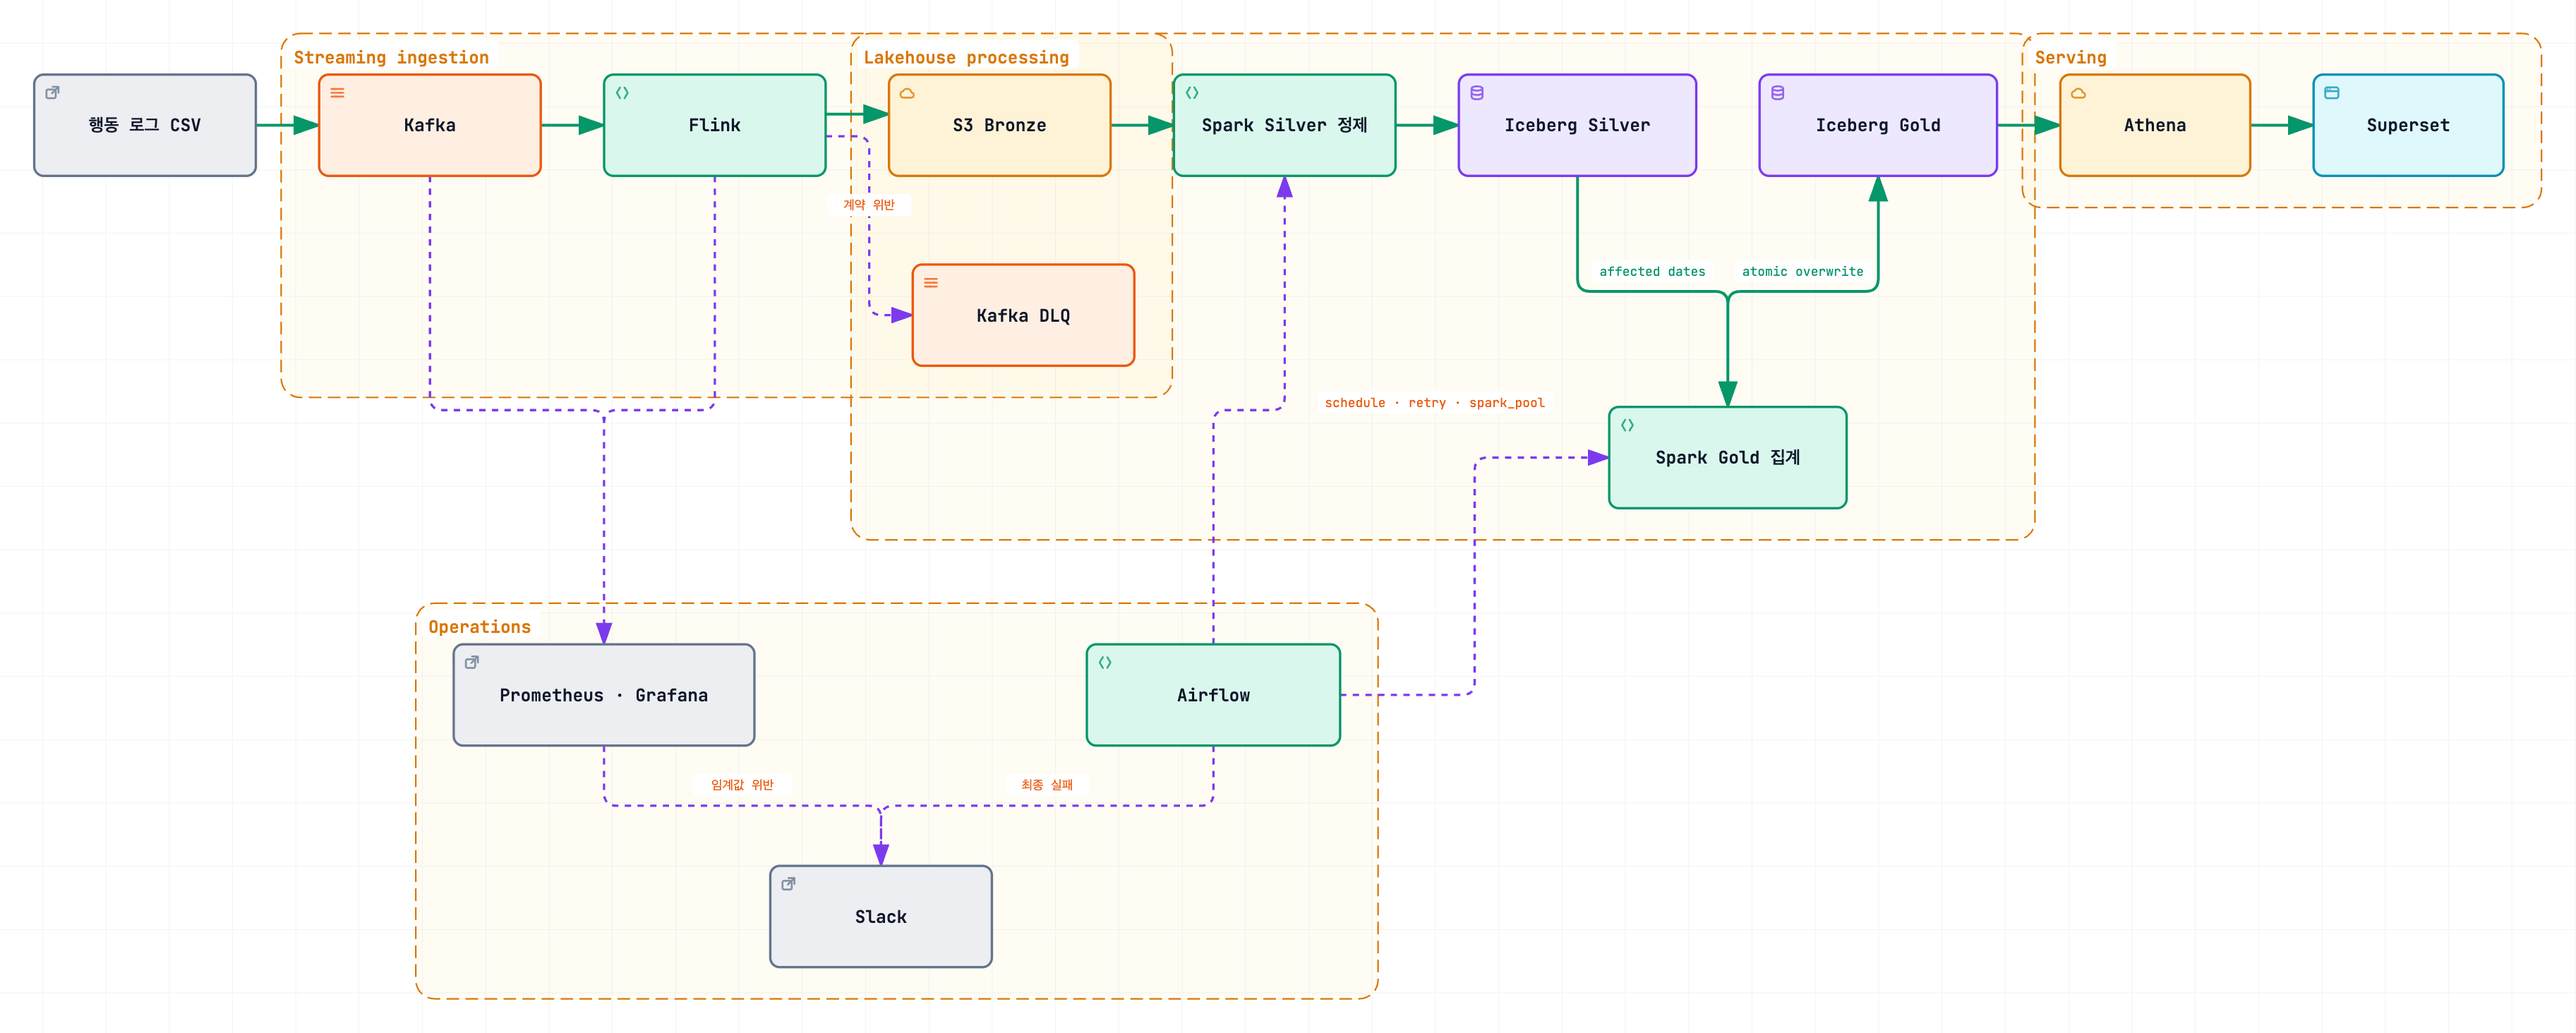
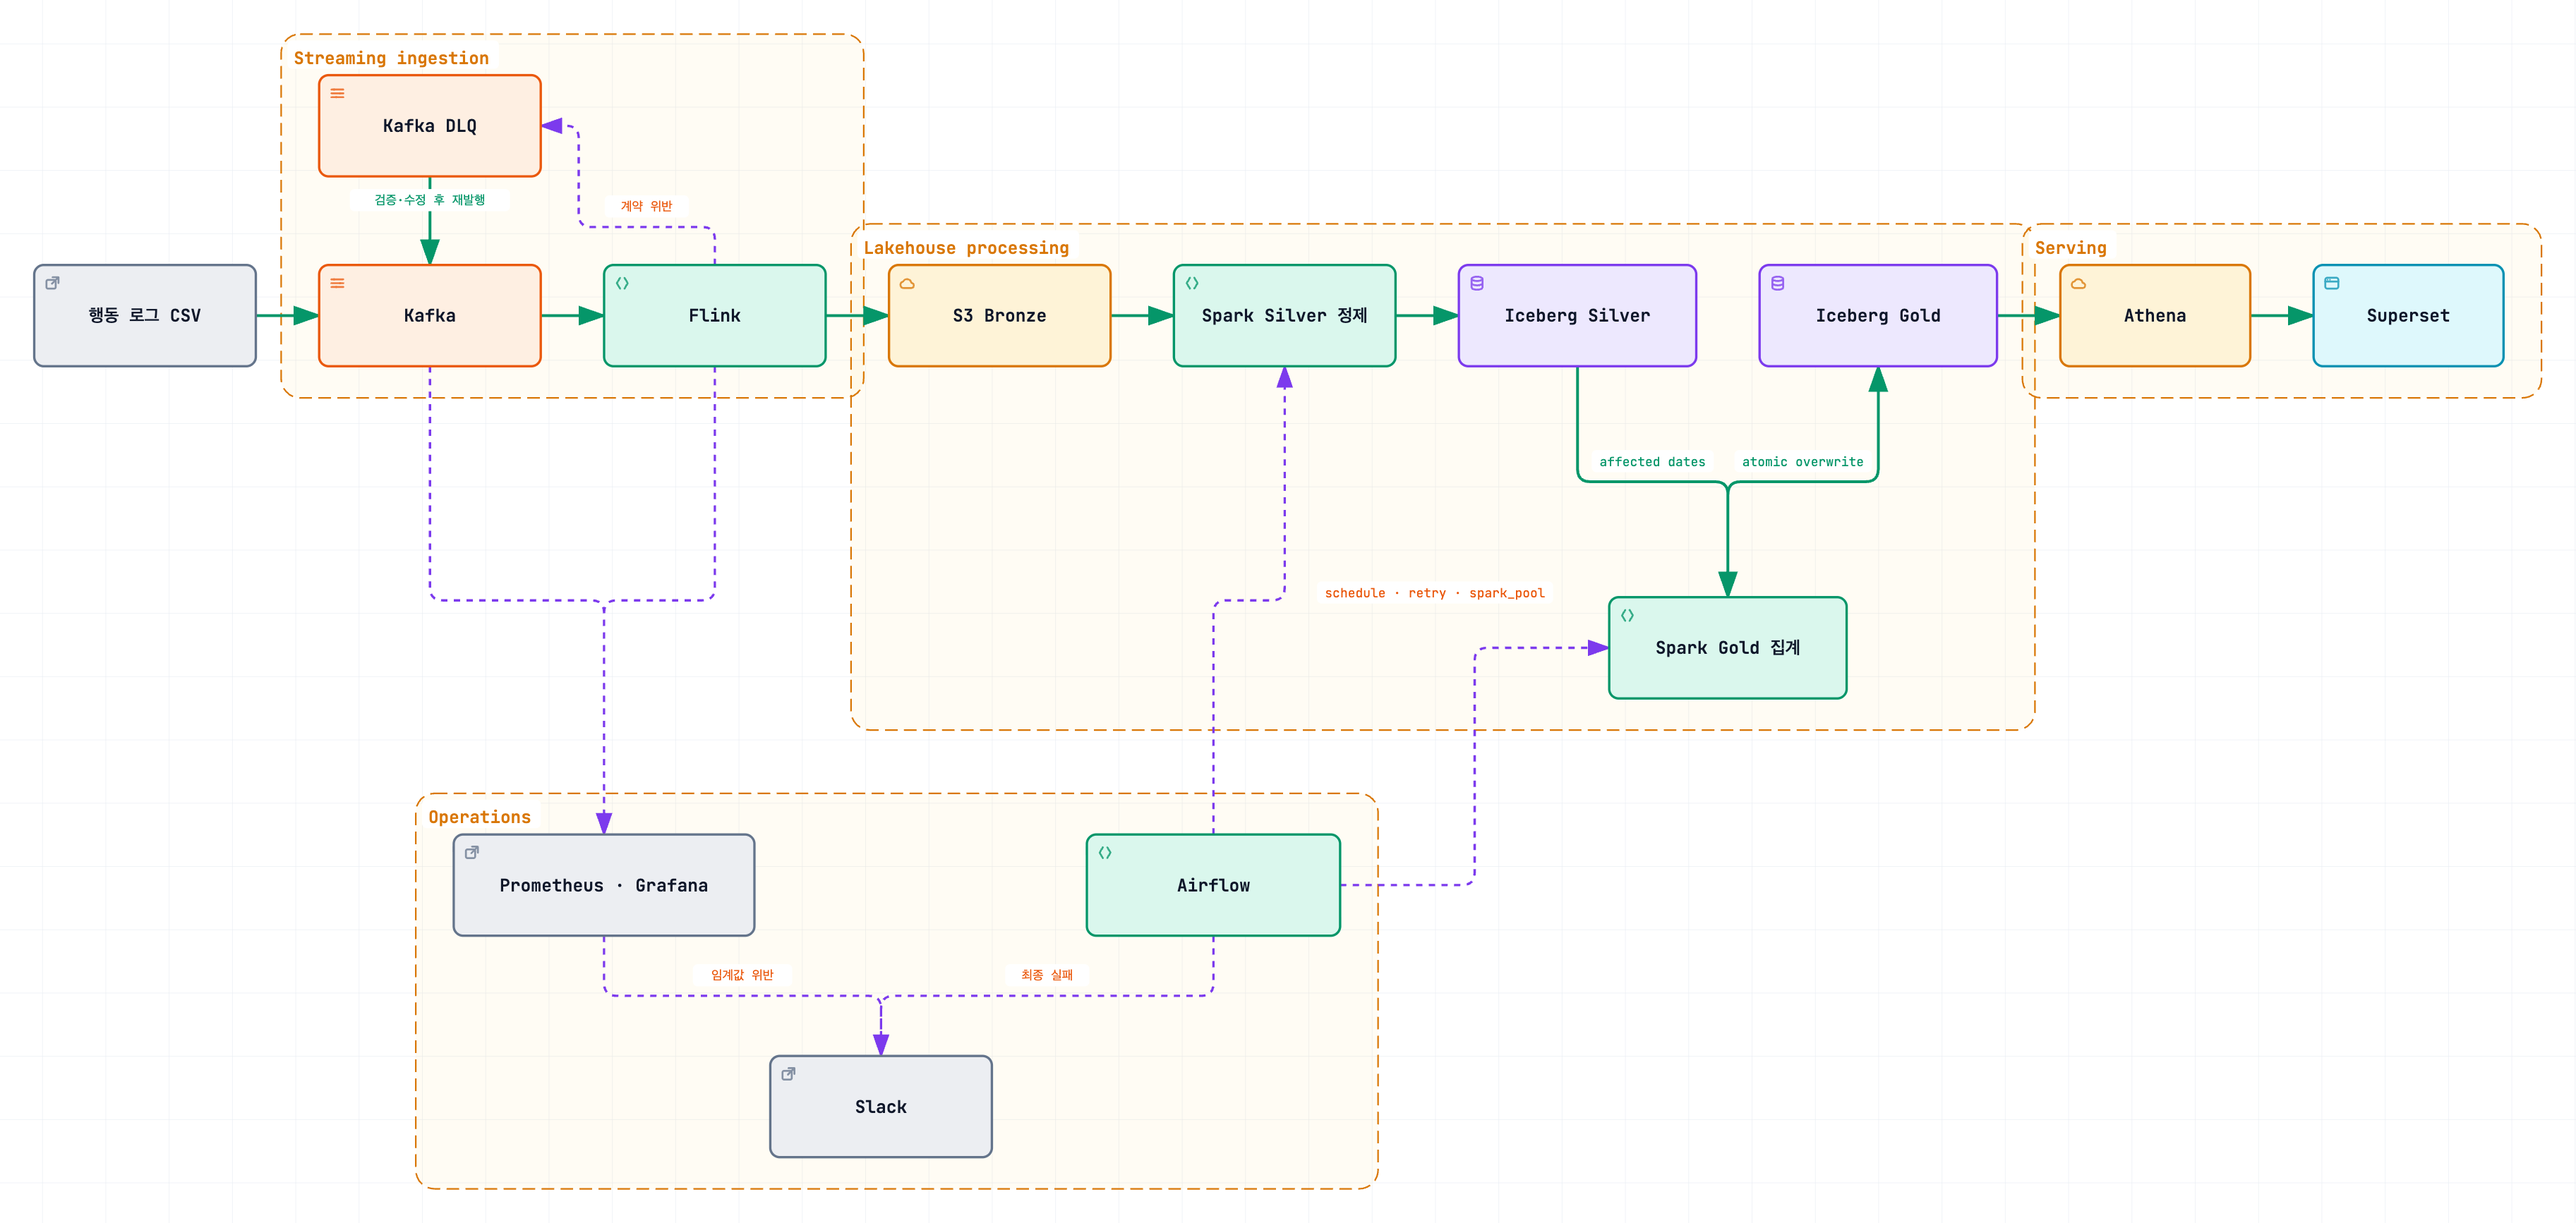
docs: 발표자료에 DLQ 재처리 CLI 반영
DLQ 재처리 CLI가 구현·검증됐으니, 아키텍처 다이어그램의 Kafka DLQ -> Kafka
재발행 화살표를 "향후" 점선에서 실제로 동작하는 실선으로 바꾸고, Flink 슬라이드와
대본에 재처리 CLI 설명을 추가했다. 개선 계획에서는 "재처리 절차 추가"를 빼고
"발생량 알림 추가(재처리 CLI는 구현·검증 완료)"로 정리해, 이미 끝난 걸 앞으로
할 일처럼 남겨두지 않게 했다.

archify validate/deliver 9개 showcase 체크 통과(에러·경고 0), marp-cli로
slides.html/.pdf 재빌드 후 --images png로 슬라이드별 렌더링 확인 - 잘림 없음.

diff --git a/presentation/script.md b/presentation/script.md
@@ -30,7 +30,8 @@ Athena·Superset에서 조회하는 구조입니다.
 
 전체 구조입니다. Kafka에서 Flink로, Flink가 S3 Bronze에 원본을 그대로 쌓고,
 Spark가 Iceberg로 Silver를 정제한 다음 영향받은 날짜만 Gold로 재집계합니다.
-Airflow가 이 전체 흐름을 스케줄링·재시도하고 spark_pool로 직렬화하고요,
+입력 계약을 위반한 이벤트는 Kafka DLQ에 격리하고, 운영자용 CLI로 검증·보정한 뒤
+원본 토픽으로 재발행합니다. Airflow가 이 전체 흐름을 스케줄링·재시도하고 spark_pool로 직렬화하고요,
 Prometheus·Grafana는 Kafka·Flink 상태를 실시간으로 감시합니다.
 
 ## 5. Superset — 비즈니스 KPI와 배치 품질 (30초)
@@ -129,16 +130,19 @@ Spark는 정합성이 중요한 배치 재계산을, Flink는 Kafka 이벤트의
 checkpoint로 offset을 복구하고, topic별로 독립적으로 처리하면서 parallelism을
 늘릴 수 있고, backpressure나 checkpoint 상태를 Grafana로 바로 볼 수 있다는 게
 장점입니다. 여기에 입력 계약을 검증하는 역할도 추가했는데, 계약을 지킨 정상
-이벤트는 Bronze로, 위반한 이벤트는 사유를 붙여 DLQ 토픽으로 보냅니다. 그리고
-실시간 잠정 KPI, 그러니까 이벤트 유입량과 purchase 건수·금액을 같은 job에서
+이벤트는 Bronze로, 위반한 이벤트는 사유를 붙여 DLQ 토픽으로 보냅니다. DLQ에
+쌓인 이벤트는 운영자용 CLI로 원인을 확인하고, 필요하면 값을 보정해서 재검증한
+뒤 원본 토픽으로 다시 돌려보낼 수 있습니다. 그리고 실시간 잠정 KPI, 그러니까
+이벤트 유입량과 purchase 건수·금액을 같은 job에서
 같이 뽑아내는 기능도 추가했고, 앞서 본 것처럼 Bronze 실측과 정확히 일치함을
 검증했습니다. 다만 재처리나 30일 전환 창이 반영 안 되니 확정 GMV가 아니라
 운영 신호로만 쓴다는 점은 분명히 하고 있습니다.
 
 ## 16. 개선 계획 (30초)
 
-앞으로 할 일은 세 가지입니다. 현재 구현한 DLQ에 발생량 알림과 재처리 절차를
-추가하겠습니다. Producer가 늘어 메시지 계약 관리가 복잡해지면 JSON에서 Avro와
+앞으로 할 일은 세 가지입니다. 지금 구현한 DLQ 재처리 CLI는 사람이 수동으로
+돌리는 도구라, 여기에 발생량 알림을 추가하겠습니다. Producer가 늘어 메시지 계약
+관리가 복잡해지면 JSON에서 Avro와
 Schema Registry로의 전환을 검토하겠습니다. 마지막으로 실제 관측 데이터를 바탕으로
 Iceberg 유지보수 주기와 운영 알림 임계값을 조정하겠습니다. 여기까지입니다.
 질문 받겠습니다.
